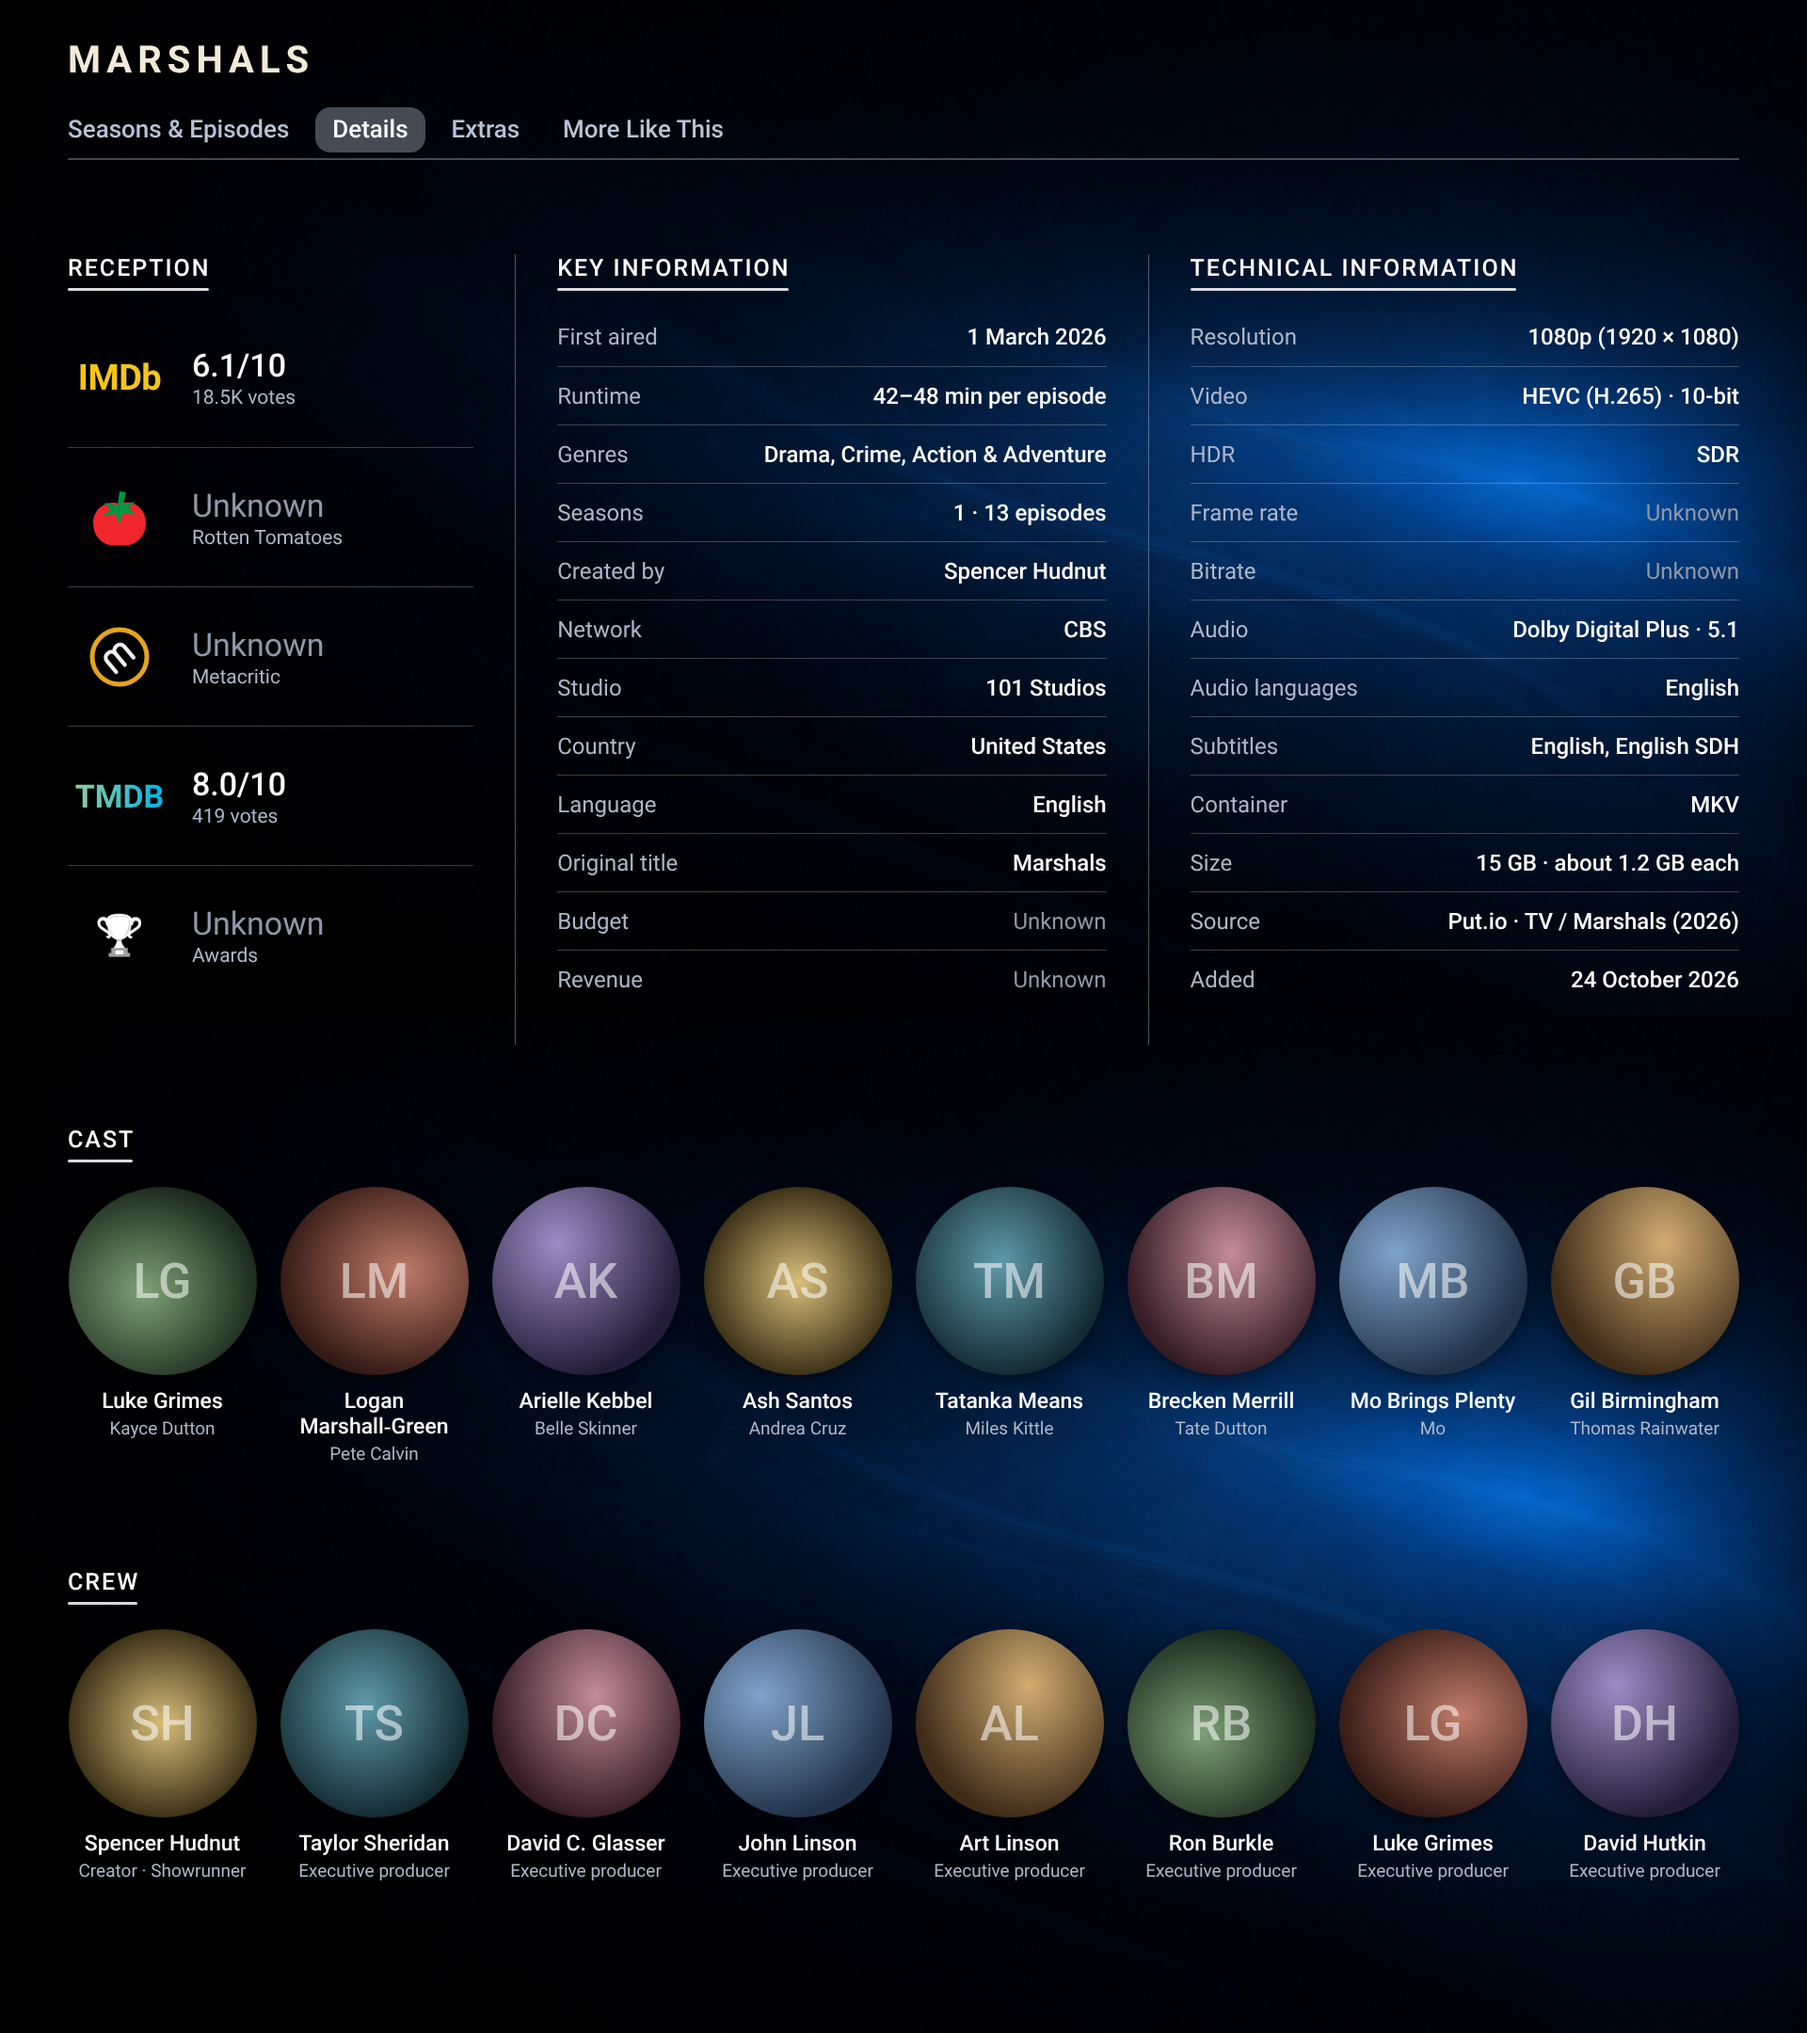
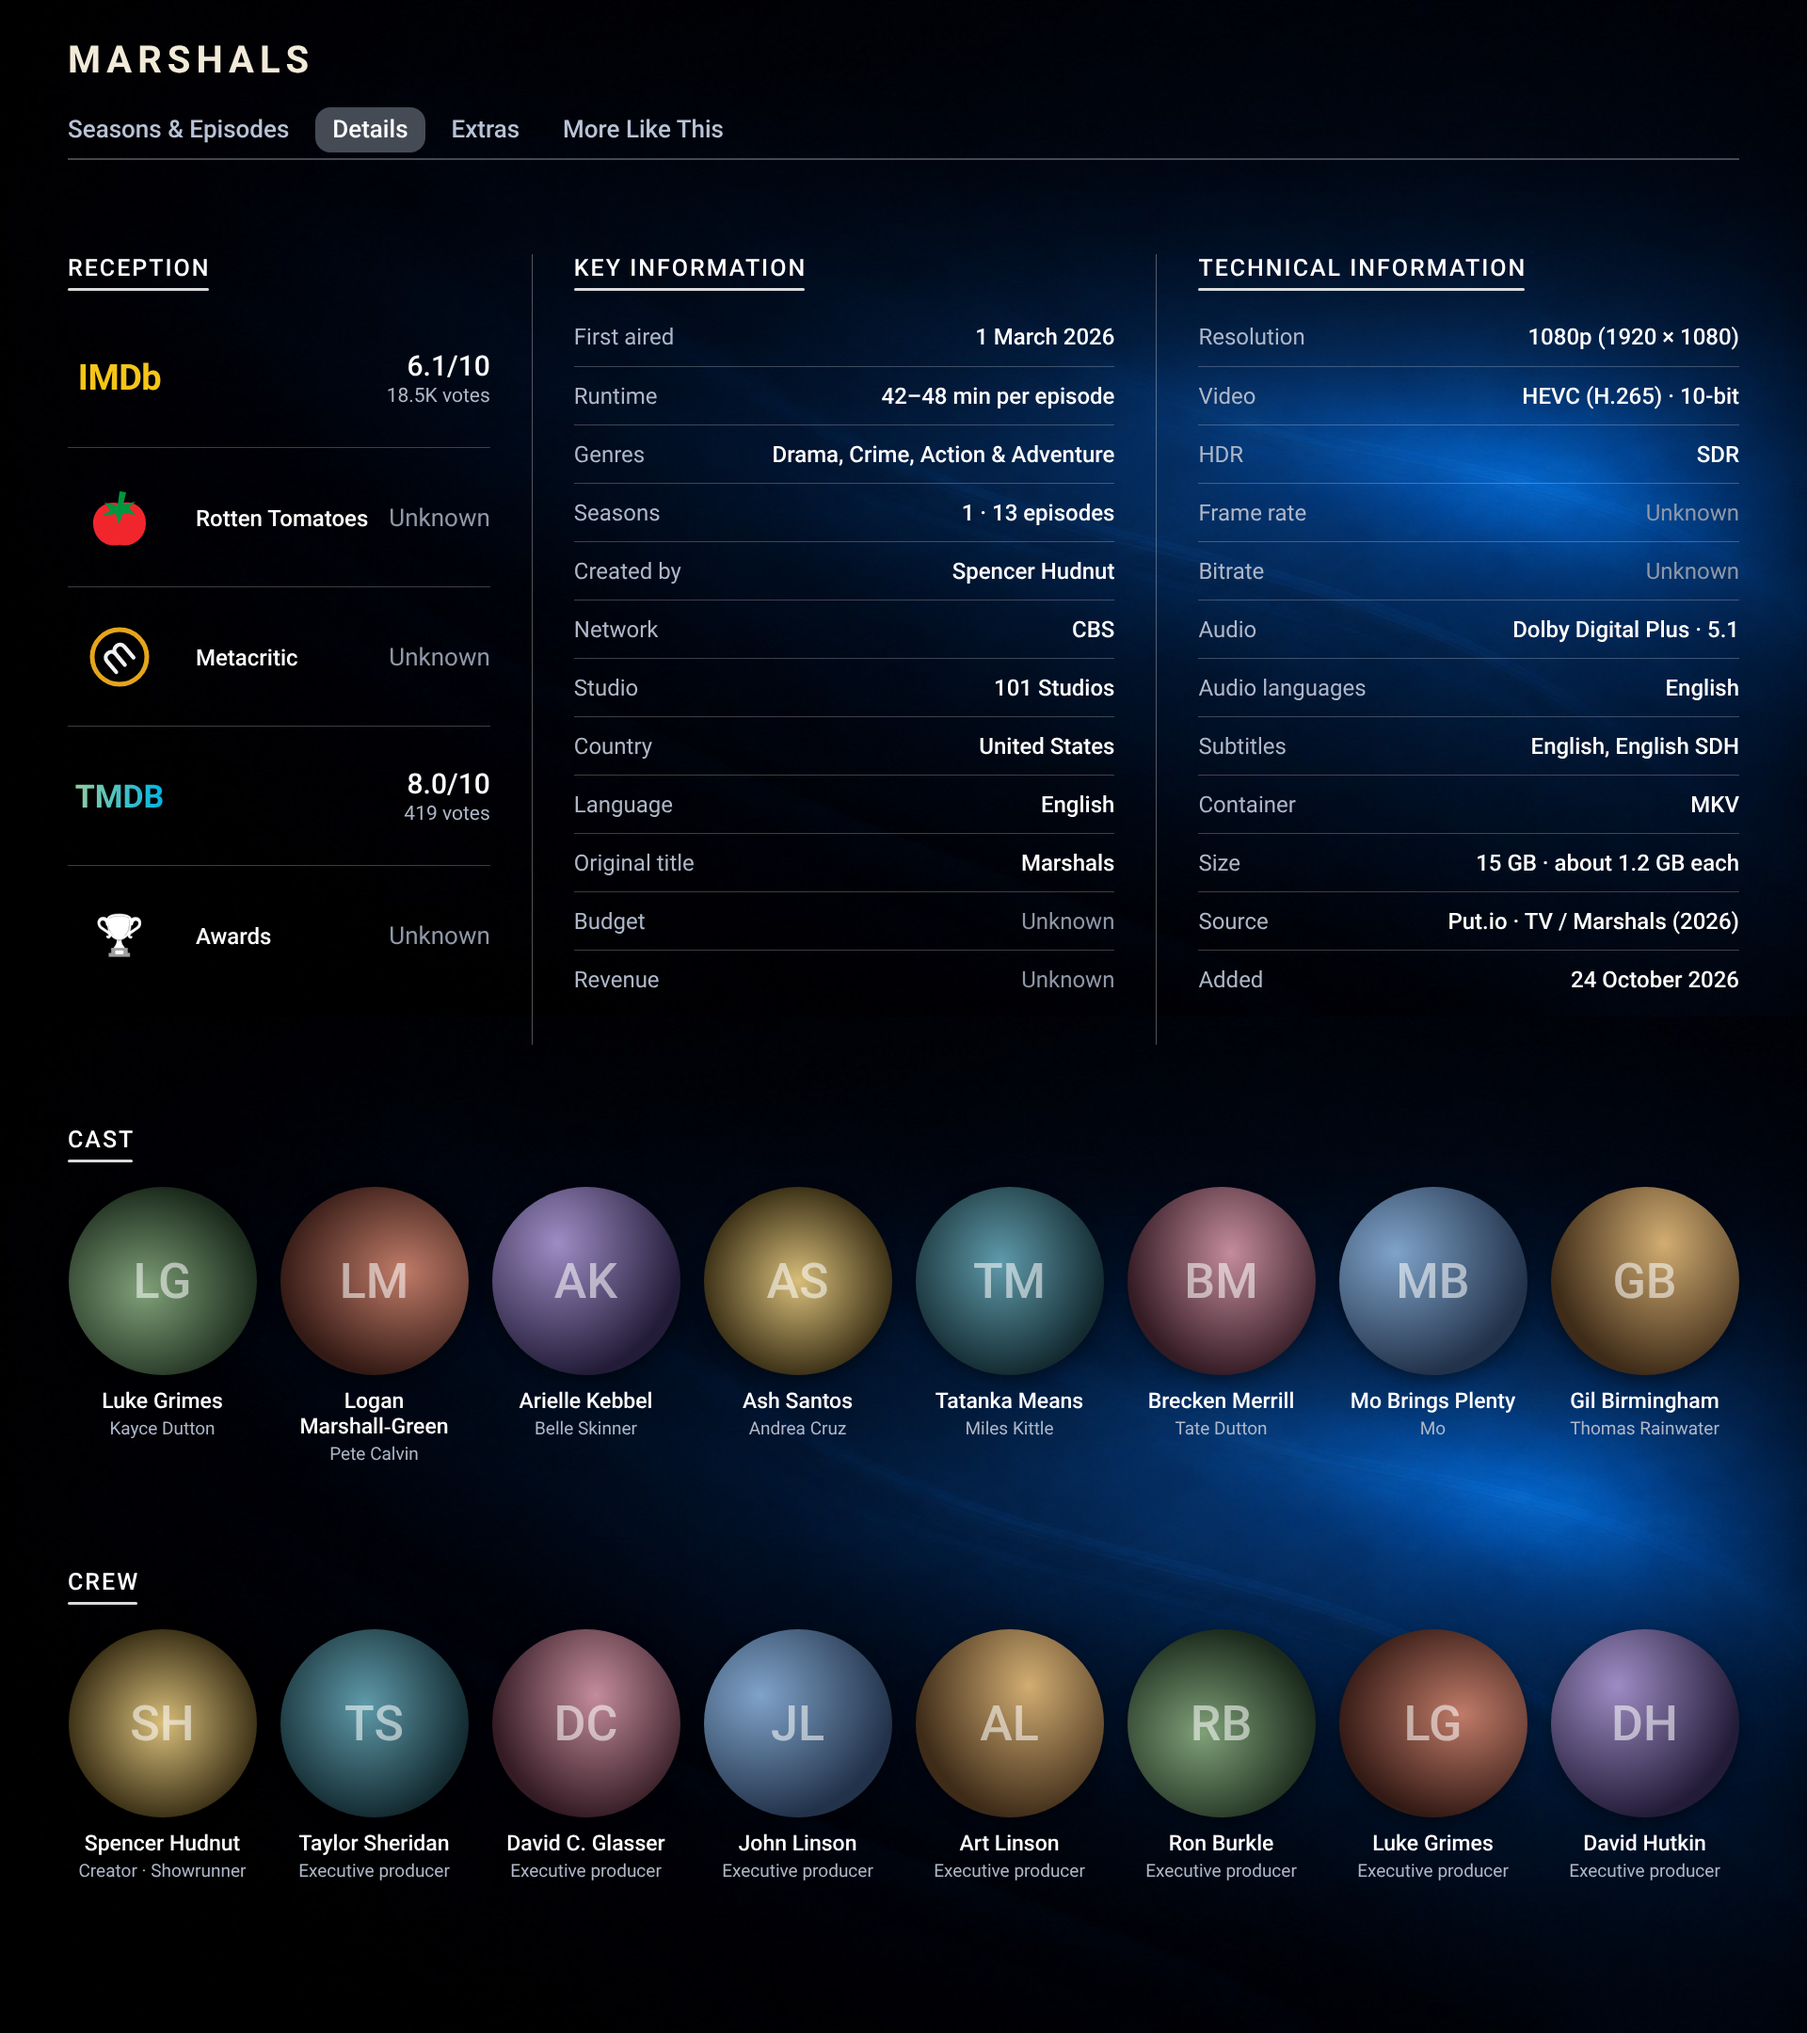
Details v16 mock-ups on charcoal: hero double edge, Reception widened, cast/crew titles spaced
Claude-Session: https://claude.ai/code/session_01FtDZqamY6pdaUKwc7fqgiA

diff --git a/docs/design/proposals/details-background/render-details-tab.js b/docs/design/proposals/details-background/render-details-tab.js
@@ -47,9 +47,11 @@ function mark(name) {
   return `<svg viewBox="0 0 ${vw} ${vh}">${parts.join('')}</svg>`;
 }
 
-function rating(markHtml, value, note) {
+function rating(markHtml, label, value, note) {
   const unknown = value === 'Unknown' ? ' class="unk"' : '';
-  return `<div class="rate"><i>${markHtml}</i><div><b${unknown}>${value}</b><span>${note}</span></div></div>`;
+  const name = label ? `<span class="lbl">${label}</span>` : '';
+  return `<div class="rate r2"><i>${markHtml}</i>${name}<div class="val"><b${unknown}>${value}</b>`
+    + `${note ? `<span>${note}</span>` : ''}</div></div>`;
 }
 const BRAND = { netflix: '#E50914', primevideo: '#1A98FF', disneyplus: '#2E6BFF' };
 const fontDir = process.env.FONT_DIR;
@@ -170,11 +172,11 @@ function quiet(pairs) {
 const details = header(1) + `<div class="content page two">
   <div class="three">
     <div class="col3 recepcol"><h3>Reception</h3>
-      ${rating('<em class="imdbw">IMDb</em>', '6.1/10', '18.5K votes')}
-      ${rating(mark('rotten_tomatoes'), 'Unknown', 'Rotten Tomatoes')}
-      ${rating(mark('metacritic'), 'Unknown', 'Metacritic')}
-      ${rating('<em class="tmdbw">TMDB</em>', '8.0/10', '419 votes')}
-      ${rating('<em class="award">🏆</em>', 'Unknown', 'Awards')}</div>
+      ${rating('<em class="imdbw">IMDb</em>', '', '6.1/10', '18.5K votes')}
+      ${rating(mark('rotten_tomatoes'), 'Rotten Tomatoes', 'Unknown', '')}
+      ${rating(mark('metacritic'), 'Metacritic', 'Unknown', '')}
+      ${rating('<em class="tmdbw">TMDB</em>', '', '8.0/10', '419 votes')}
+      ${rating('<em class="award">🏆</em>', 'Awards', 'Unknown', '')}</div>
     <div class="col3"><h3>Key information</h3>${list([
       ['First aired', '1 March 2026'], ['Runtime', '42–48 min per episode'], ['Genres', 'Drama, Crime, Action & Adventure'],
       ['Seasons', '1 · 13 episodes'], ['Created by', 'Spencer Hudnut'], ['Network', 'CBS'], ['Studio', '101 Studios'],
@@ -323,6 +325,10 @@ body.blue{--uline:#4d8dff}body.blue .two h3:after{box-shadow:0 0 10px rgba(77,14
 body.white{--uline:rgba(255,255,255,.85)}
 
 body.flat{background:#16181C !important}
+.rate.r2{display:flex;align-items:center}.rate.r2 .lbl{font-size:24px;font-weight:500;color:#fff;margin-left:4px;white-space:nowrap}
+.rate.r2 .val b{font-size:30px}.rate.r2 .val b.unk{font-size:26px}
+.rate.r2 .val{margin-left:auto;text-align:right}.rate.r2 .val span{display:block}
+body.v16 .two .sec h3{margin-bottom:60px}
 .tab.open{background:#454B55;border-radius:16px;padding:8px 18px 10px;margin:-8px -18px 6px;color:#fff}
 .tab.open:after{display:none}
 `;
@@ -330,6 +336,7 @@ body.flat{background:#16181C !important}
 const shots = [
   ['02-details-tab-space-black.png', details, 2160, 'white'],
   ['04-details-tab-charcoal.png', details, 2160, 'white flat'],
+  ['06-v16-details-tab.png', details, 2160, 'white flat v16'],
 ];
 
 (async () => {

diff --git a/docs/design/proposals/details-background/render-hero.js b/docs/design/proposals/details-background/render-hero.js
@@ -217,6 +217,7 @@ h3 + .kv{border-top:none}
   border-bottom:2px solid rgba(255,255,255,.28);padding-bottom:16px}.htabs .open{color:#fff}
 
 body.flat{background:#16181C !important}
+body.v16 .hero{box-shadow:0 0 0 2px #000,0 0 0 4px rgba(255,255,255,.55),0 18px 50px rgba(0,0,0,.45)}
 .tab.open{background:#454B55;border-radius:16px;padding:8px 18px 10px;margin:-8px -18px 6px;color:#fff}
 .tab.open:after{display:none}
 .htabs span.open{background:#454B55;border-radius:16px;padding:8px 18px;margin:-8px -18px;color:#fff}
@@ -226,6 +227,7 @@ body.flat{background:#16181C !important}
 const shots = [
   ['01-top-space-black.png', heroCard, ''],
   ['03-top-charcoal.png', heroCard, 'flat'],
+  ['05-v16-top.png', heroCard, 'flat v16'],
 ];
 
 (async () => {
